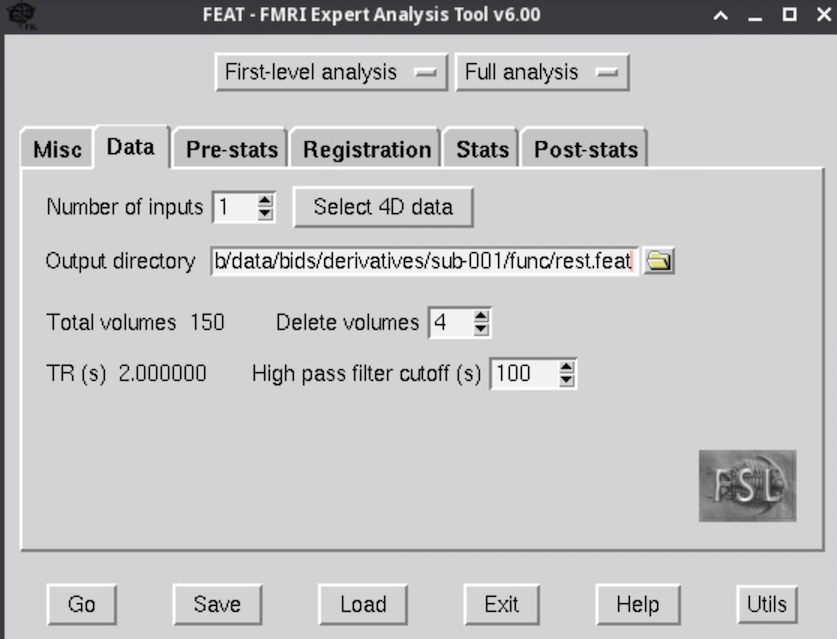
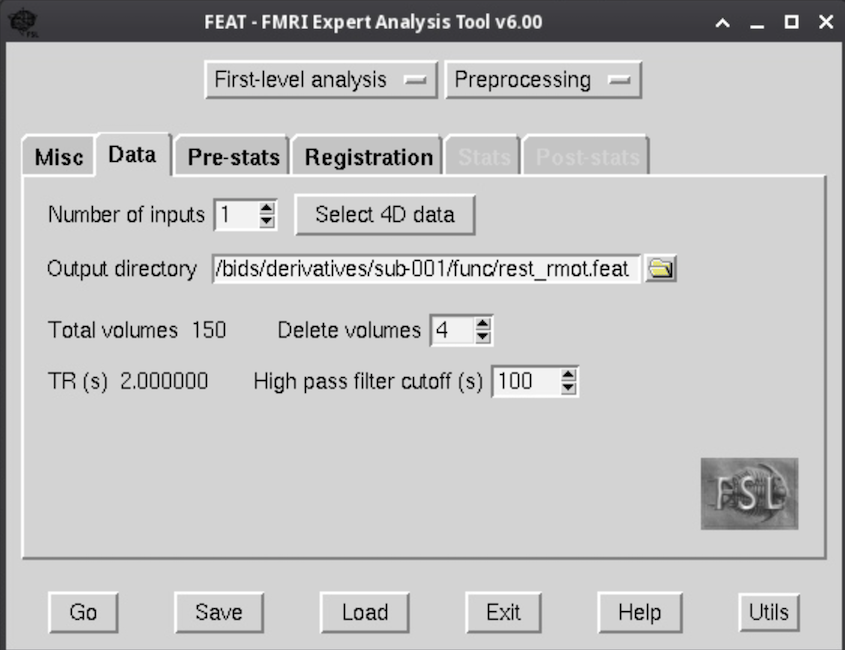
final rsfc lab

diff --git a/practical_resting-state-fc.md b/practical_resting-state-fc.md
@@ -30,7 +30,7 @@ We will use the steps you learned from last block to preprocess the resting-stat
     - In FSL GUI, open 'FEAT FMRI analysis'
         - Define scope of 'First-level analysis' to 'Preprocessing' at the top of the GUI
         - Select `sub-001-task-rest_bold.nii.gz` as input 4D. 
-        - Set output to `~/fmriLab/data/bids/derivatives/sub-001/func/rest.feat`
+        - Set output to `~/fmriLab/data/bids/derivatives/sub-001/func/rest_rmot.feat`
         - We will delete the first 4 volumes in `Delete volumes`
         - Leave the High pass filter cutoff (s) to 100s
     ![](images/practical-rsfc_tab-data.png)
@@ -52,19 +52,20 @@ We will use the steps you learned from last block to preprocess the resting-stat
 - Hit Go!
 
 - We then need to manually do "low-pass" filter. That is because FEAT does not support it (only does highpass). We have to do it via command line in the terminal.
-  - Now open the terminal, move to the `rest.feat` folder you just made: `cd ~/fmriLab/data/bids/derivatives/sub-001/func/rest.feat`
-  - Note, this might not work if you didn't save rest.feat under sub-001, in that case you have to find our where you saved it.
+  - Now open the terminal, move to the `rest_rmot.feat` folder you just made: `cd ~/fmriLab/data/bids/derivatives/sub-001/func/rest_rmot.feat`
+  - Note, this might not work if you didn't save rest_rmot.feat under sub-001, in that case you have to find our where you saved it.
   - Then run this command:
 `fslmaths filtered_func_data.nii.gz -bptf -1 2.5 filtered_func_data.nii.gz`
 - Here we are doing lowpass filtering of 0.08 hz. 
     - the `-bptf` option expects a high-pass sigma and a low-pass sigma, which can be caluclated by
-    - `highpass_sigma = 1 / (2 * TR * HP_freq)` (we use "-1" because we already highpassed the data)
-    - `lowpass_sigma = 1 / (2 * TR * LP_freq))` (remember TR is 2s)
+    - `highpass_sigma = 1 / (2.35 * TR * HP_freq)` (we use "-1" because we already highpassed the data)
+    - `lowpass_sigma = 1 / (2.35 * TR * LP_freq))` (remember TR is 2s)
+    - If interested in an explanation for this, see here: https://www.jiscmail.ac.uk/cgi-bin/webadmin?A2=fsl;fc5b33c5.1205 
     - Use fsleys to look at how the low-pass filter changes the timeseries
 
 
 ## Step 2. Extract the seed time-series
-- Stay in the preprocessed output folder `~/fmriLab/data/bids/derivatives/sub-001/func/rest.feat/`
+- Stay in the preprocessed output folder `~/fmriLab/data/bids/derivatives/sub-001/func/rest_rmot.feat/`
 - Use fsleyes to open up the preprocessed structural image
   - `file`, `add from file`, goto `reg`, select `highres`
 - Add the `filtered_func_data`, use it as underlay (place as a layer underneath the highres). Use the skills you learned from the previous section to play around with opacity and color. Make sure they are nicely aligned.
@@ -75,7 +76,7 @@ x=34 (top row), y=-12 (middle row), z=24 (lower row)
 ![](images/practical-rsfc_rmot-coords.png)
 
 
-- We will now create an ROI mask around that coordinate. In the terminal (still in `rest.feat`), do
+- We will now create an ROI mask around that coordinate. In the terminal (still in `rest_rmot.feat`), do
   - `fslmaths filtered_func_data.nii.gz -mul 0 -add 1 -roi 21 1 32 1 26 1 0 1 right_motor -odt float`
   - `fslmaths right_motor.nii.gz -kernel sphere 5 -fmean right_motor -odt float`
   - Use the skills your learned and check the anatomical location of right_motor.nii.gz file that you just created.
@@ -86,10 +87,10 @@ x=34 (top row), y=-12 (middle row), z=24 (lower row)
 
 ## Step 3. Run the functional connectivity analysis using FEAT. Inputing the seed time-series as the regressor
 
-- In the terminal, move to where your `rest.feat` output is, do: `cd ~/fmriLab/data/bids/derivatives/sub-001/func/`
+- In the terminal, move to where your `rest_rmot.feat` output is, do: `cd ~/fmriLab/data/bids/derivatives/sub-001/func/`
 - Start `fsl`, open `FEAT`
 - Change `Full analysis` to `Statistics`
-- Click Input is a FEAT directory, and select the `rest.feat` folder as input.
+- Click Input is a FEAT directory, and select the `rest_rmot.feat` folder as input.
 - Click Stats tab. Keep `Don't add Motion Parameters` 
 
 
@@ -98,11 +99,18 @@ x=34 (top row), y=-12 (middle row), z=24 (lower row)
   - Change `Basic shape` to `Custom (1 entry per volume)`
   - In Filename, click the folder icon and select `right_motor.txt`
   - Change `Convolution` to `None`, and unclick Add temporal derivative and Apply temporal filtering
+  - View the design, what is this? 
   ![](images/practical-rsfc_tab-stats.png)
 
-- View the design, what is this? 
-- Close the design image and Hit Go!
+- Move to the Post-stats tab
+  - Change the Z threshold to 8
+    ![](images/practical-rsfc_tab-prestats-thresh.png)
+
+- Hit Go!
 - Inspect progress in the FEAT report html page.
 - In the terminal, launch `fsleyes again`, we will load both the `reg/highres` and the `rendered_thresh_zstat1.nii.gz` images.
 - After loading the `rendered_thresh_zstat1`, we can change both the colorbar and the min threshold to examine regions that show strong functional connectivity with our right motor seed.
 ![](images/practical-rsfc_fsleyes-rmot-map.png)
+- We can also see our full map in our `report_poststats.html`
+
+![](practical-rsfc_report-poststats.png)
